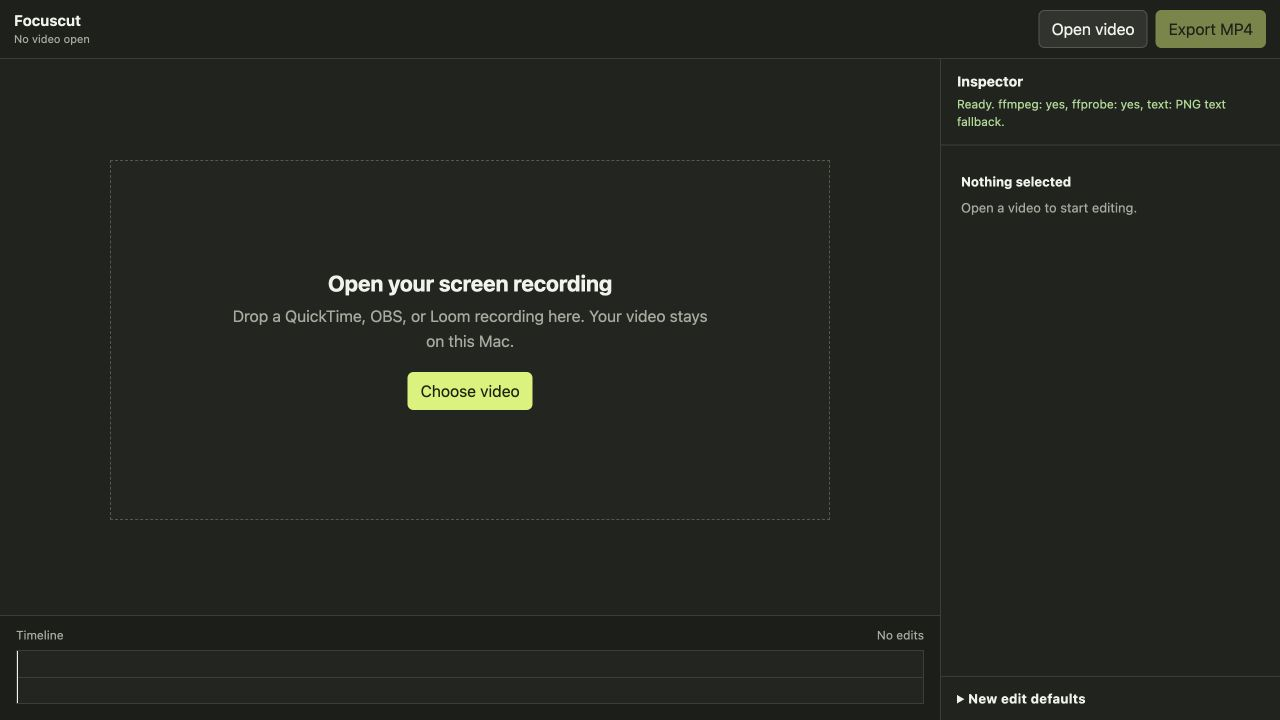
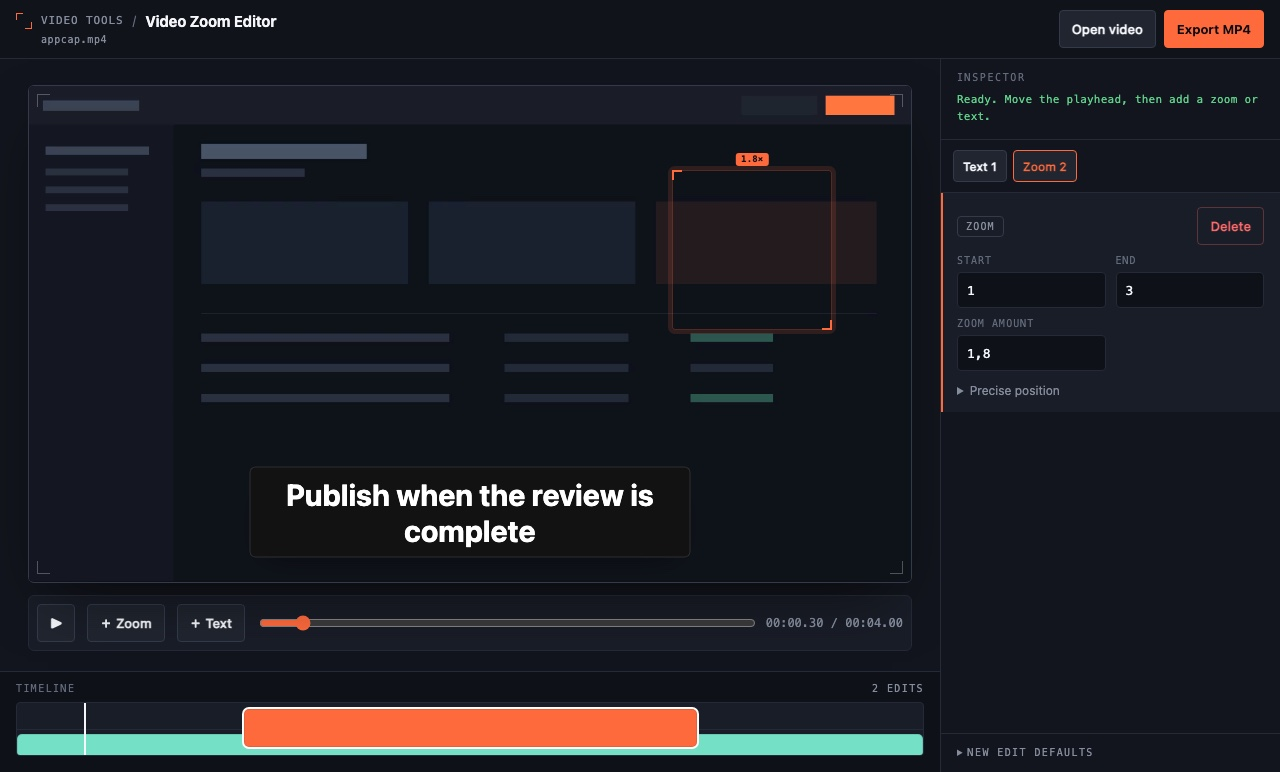
Update landing preview to the redesigned editor
Replace the old Focuscut/light-lime editor screenshot with the current
Video Zoom Editor: the viewfinder-identity UI mid-edit — a screen
recording with a zoom focus bracket, a text callout, the timeline, and
the inspector. Update the image alt text to match.

diff --git a/landing.html b/landing.html
@@ -867,7 +867,7 @@
 
         <figure class="proof reveal">
           <div class="proof-frame">
-            <img src="/assets/video-zoom-editor-preview.jpg" alt="The Video Zoom Editor interface with the upload stage, timeline, and inspector panel" />
+            <img src="/assets/video-zoom-editor-preview.jpg" alt="The Video Zoom Editor interface with a screen recording, a zoom focus bracket, timeline, and inspector panel" />
           </div>
           <figcaption>
             <span>The actual local editor</span>